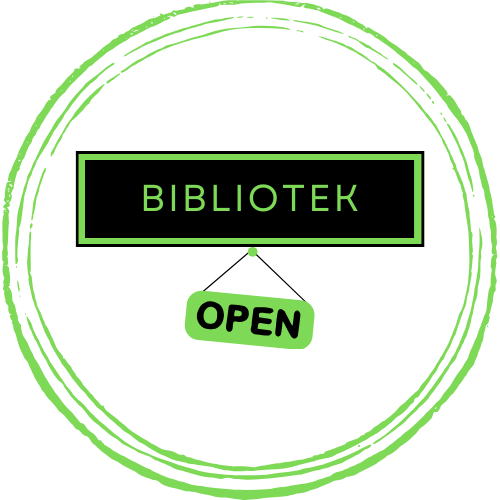
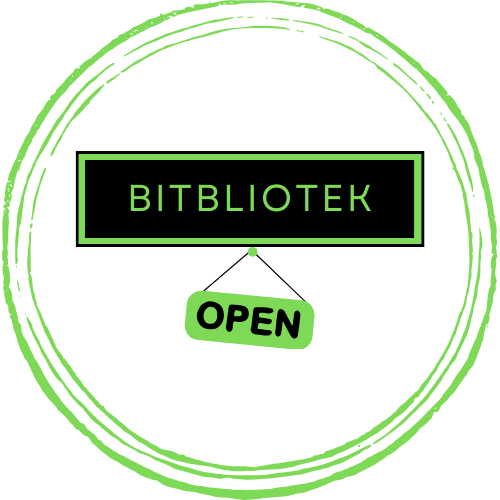
Segunda subida.5

Changed region(s): [[0.24, 0.36, 0.75, 0.42]]

diff --git a/.idea/Interfaz/Ventana1.py b/.idea/Interfaz/Ventana1.py
@@ -22,11 +22,11 @@ class MyApp(App):
         center_layout = RelativeLayout(size_hint=(None, None), size=(dp(300), dp(300)), pos_hint={'center_x': 0.5, 'center_y': 0.5})
 
         # Agregar la imagen de fondo
-        background = Image(source='fondointro.jpg', allow_stretch=True, keep_ratio=False, pos_hint={'center_x': 0.5, 'center_y': 0.5})
+        background = Image(source='verdesitofondito.jpg', allow_stretch=True, keep_ratio=False, pos_hint={'center_x': 0.5, 'center_y': 0.5})
         layout.add_widget(background)
 
         # Agregar una imagen principal con un tamaño específico
-        img = Image(source='bibliotekBuena.png', size=(dp(350), dp(350)), size_hint=(None, None), pos_hint={'center_x': 0.5, 'center_y': 0.80})  # Ajuste en 'center_y'
+        img = Image(source='biblioteknegro.png', size=(dp(350), dp(350)), size_hint=(None, None), pos_hint={'center_x': 0.5, 'center_y': 0.80})  # Ajuste en 'center_y'
         center_layout.add_widget(img)
 
         # Espaciado entre la imagen y los demás elementos

diff --git a/.idea/Interfaz/Pruebas2.py b/.idea/Interfaz/Pruebas2.py
@@ -31,11 +31,11 @@ class MyApp(App):
         center_layout = RelativeLayout(size_hint=(None, None), size=(dp(300), dp(300)), pos_hint={'center_x': 0.5, 'center_y': 0.5})
 
         # Agregar la imagen de fondo
-        background = Image(source='fondointro.jpg', allow_stretch=True, keep_ratio=False, pos_hint={'center_x': 0.5, 'center_y': 0.5})
+        background = Image(source='fondoApp.jpg', allow_stretch=True, keep_ratio=False, pos_hint={'center_x': 0.5, 'center_y': 0.5})
         layout.add_widget(background)
 
         # Agregar una imagen principal con un tamaño específico
-        img = Image(source='bibliotekBuena.png', size=(dp(320), dp(320)), size_hint=(None, None), pos_hint={'center_x': 0.5, 'center_y': 0.5 + total_spacing / 2})  # Ajuste en 'center_y'
+        img = Image(source='bitbliotek.png', size=(dp(320), dp(320)), size_hint=(None, None), pos_hint={'center_x': 0.5, 'center_y': 0.5 + total_spacing / 2})  # Ajuste en 'center_y'
         center_layout.add_widget(img)
 
         # Campo de usuario
